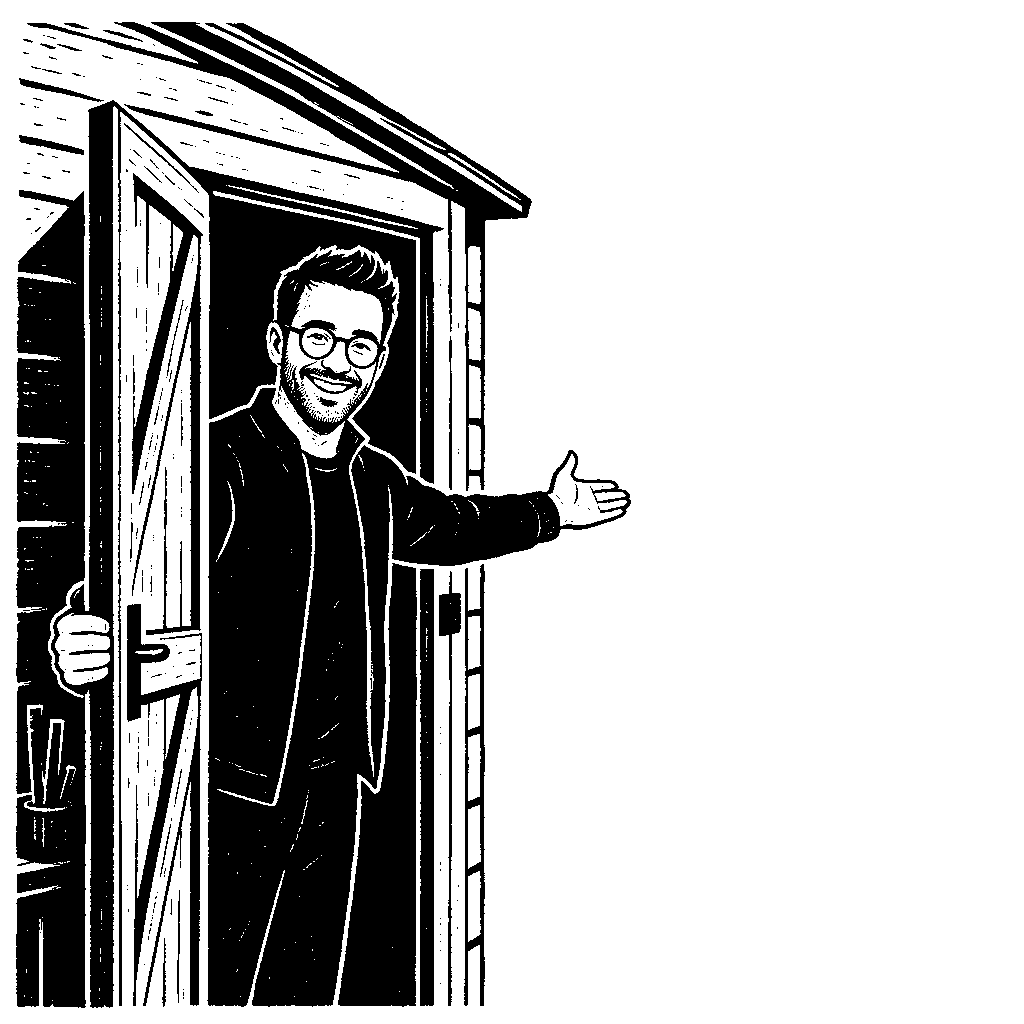
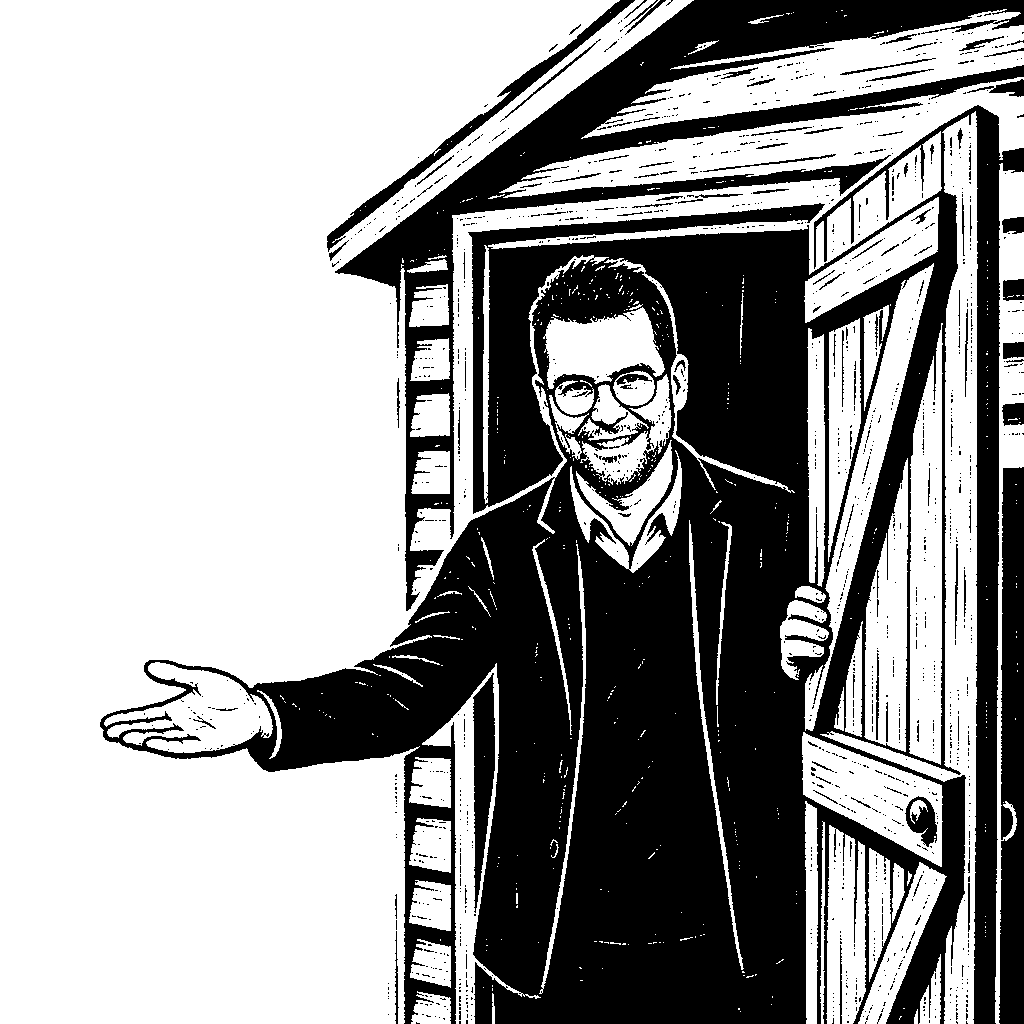
content: redraw the dbtour cover without the stray hand

diff --git a/thoughts/2026-11-18-just-created-dbtour/image/prompts.md b/thoughts/2026-11-18-just-created-dbtour/image/prompts.md
@@ -17,13 +17,13 @@ images:
       A smiling man with round glasses holds open the door of a small shed and
       gestures outward to open space.
     drawn: true
-    model: images/gpt-image-2
-    reviewed_by: claude
-    attempts: 1
+    model: images/gpt-image-2 (asked to draw from the reference photo)
+    reviewed_by: victor
+    attempts: 3
     quote: AI-assisted development is how it became a product anyone can use.
     note: >-
       The man opens the door of a small private workshop to the outside, which
-      is the move from an internal tool to one anyone can use.
+      is the move from a side project to one anyone can use.
     prompt: >-
       A linocut print: bold carved black shapes and white cut lines, strong
       contrast, hand-printed texture, only black and white, no grey, no text.
@@ -31,10 +31,13 @@ images:
       always this person: Victor: a man with short dark hair swept up at the
       front, light stubble along the jaw, round glasses and a warm, wide smile.
       Dressed simply, a dark jacket or jumper over a shirt. Always the same man,
-      drawn the same way. A smiling man with round glasses stands in a doorway
-      of a small workshop shed, holding the door wide open and gesturing outward
-      toward an empty open space beyond. Generous empty space, nothing else.
-      Square image.
+      drawn the same way. A smiling man with round glasses stands in the open
+      doorway of a small workshop shed, the door swung wide open beside him. His
+      left hand rests on the edge of the open door, inside the doorway with him;
+      his right arm reaches outward, palm up, toward the empty open space
+      beyond. He has exactly two hands and both are clearly his own; there are
+      no other hands anywhere in the picture. Generous empty space, nothing
+      else. Square image.
   - file: image/01-stack-of-folders-beside-lamp.png
     section: Where it started
     subject: >-

diff --git a/thoughts/2026-11-18-just-created-dbtour/road.md b/thoughts/2026-11-18-just-created-dbtour/road.md
@@ -18,4 +18,5 @@ updated: 2026-11-18
 | 7 | 2026-11-18 | safety | safety agent, run locally | Passed. US$0.01. |
 | 8 | 2026-11-18 | security | security agent, run locally | Passed. US$0.02. |
 | 9 | 2026-11-18 | voice | voice agent, run locally | Read the short version in Victor's voice (ElevenLabs eleven_v3), 66.6 seconds. US$0.03. Victor listens before merging. |
-| 10 | – | merge | Victor | Merges the pull request. |
+| 10 | 2026-11-18 | image (cover only) | Claude Code, with the image agent's model | Victor saw a stray hand on the outside of the door. Redrawn twice from the reference photo with the same prompt plus a line about the hands; Victor's pick replaced image/00. About US$0.14. |
+| 11 | – | merge | Victor | Merges the pull request. |
